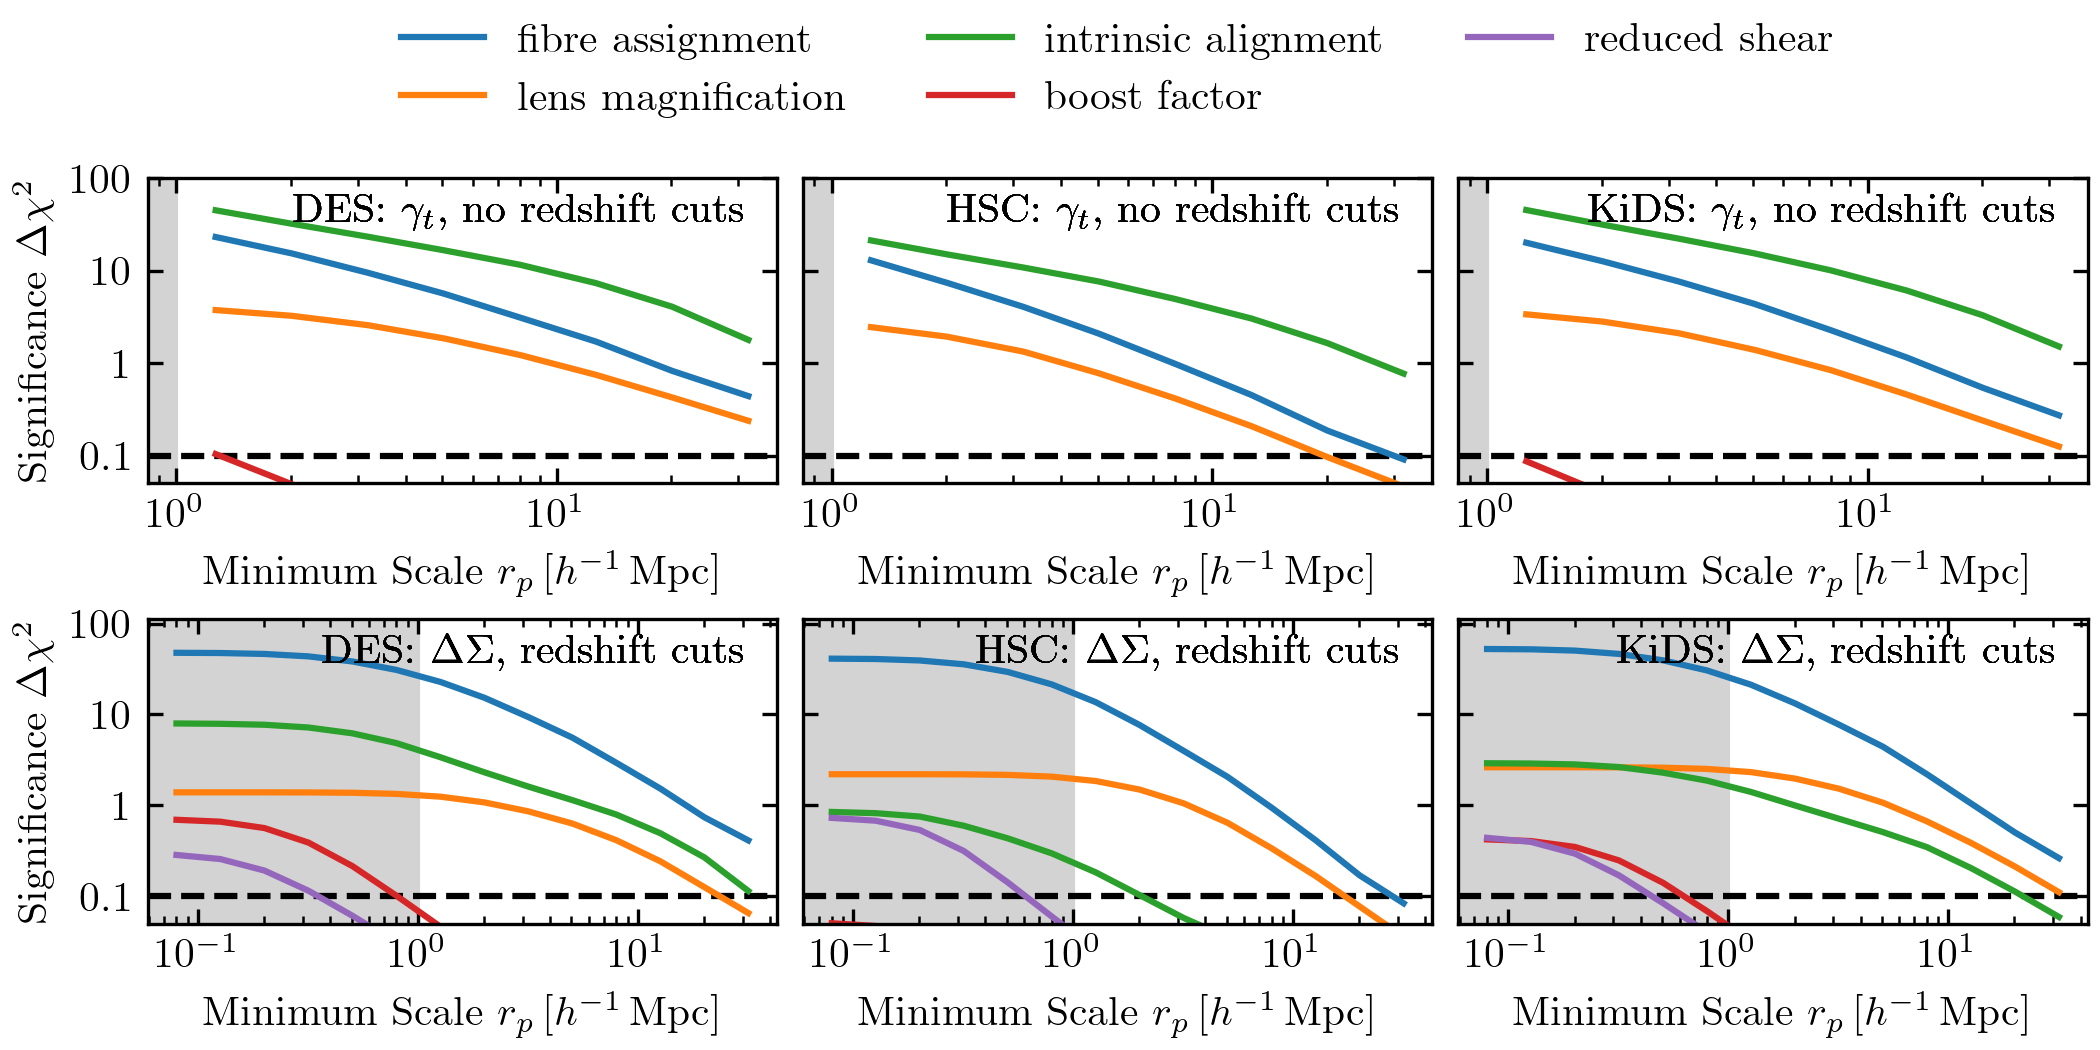
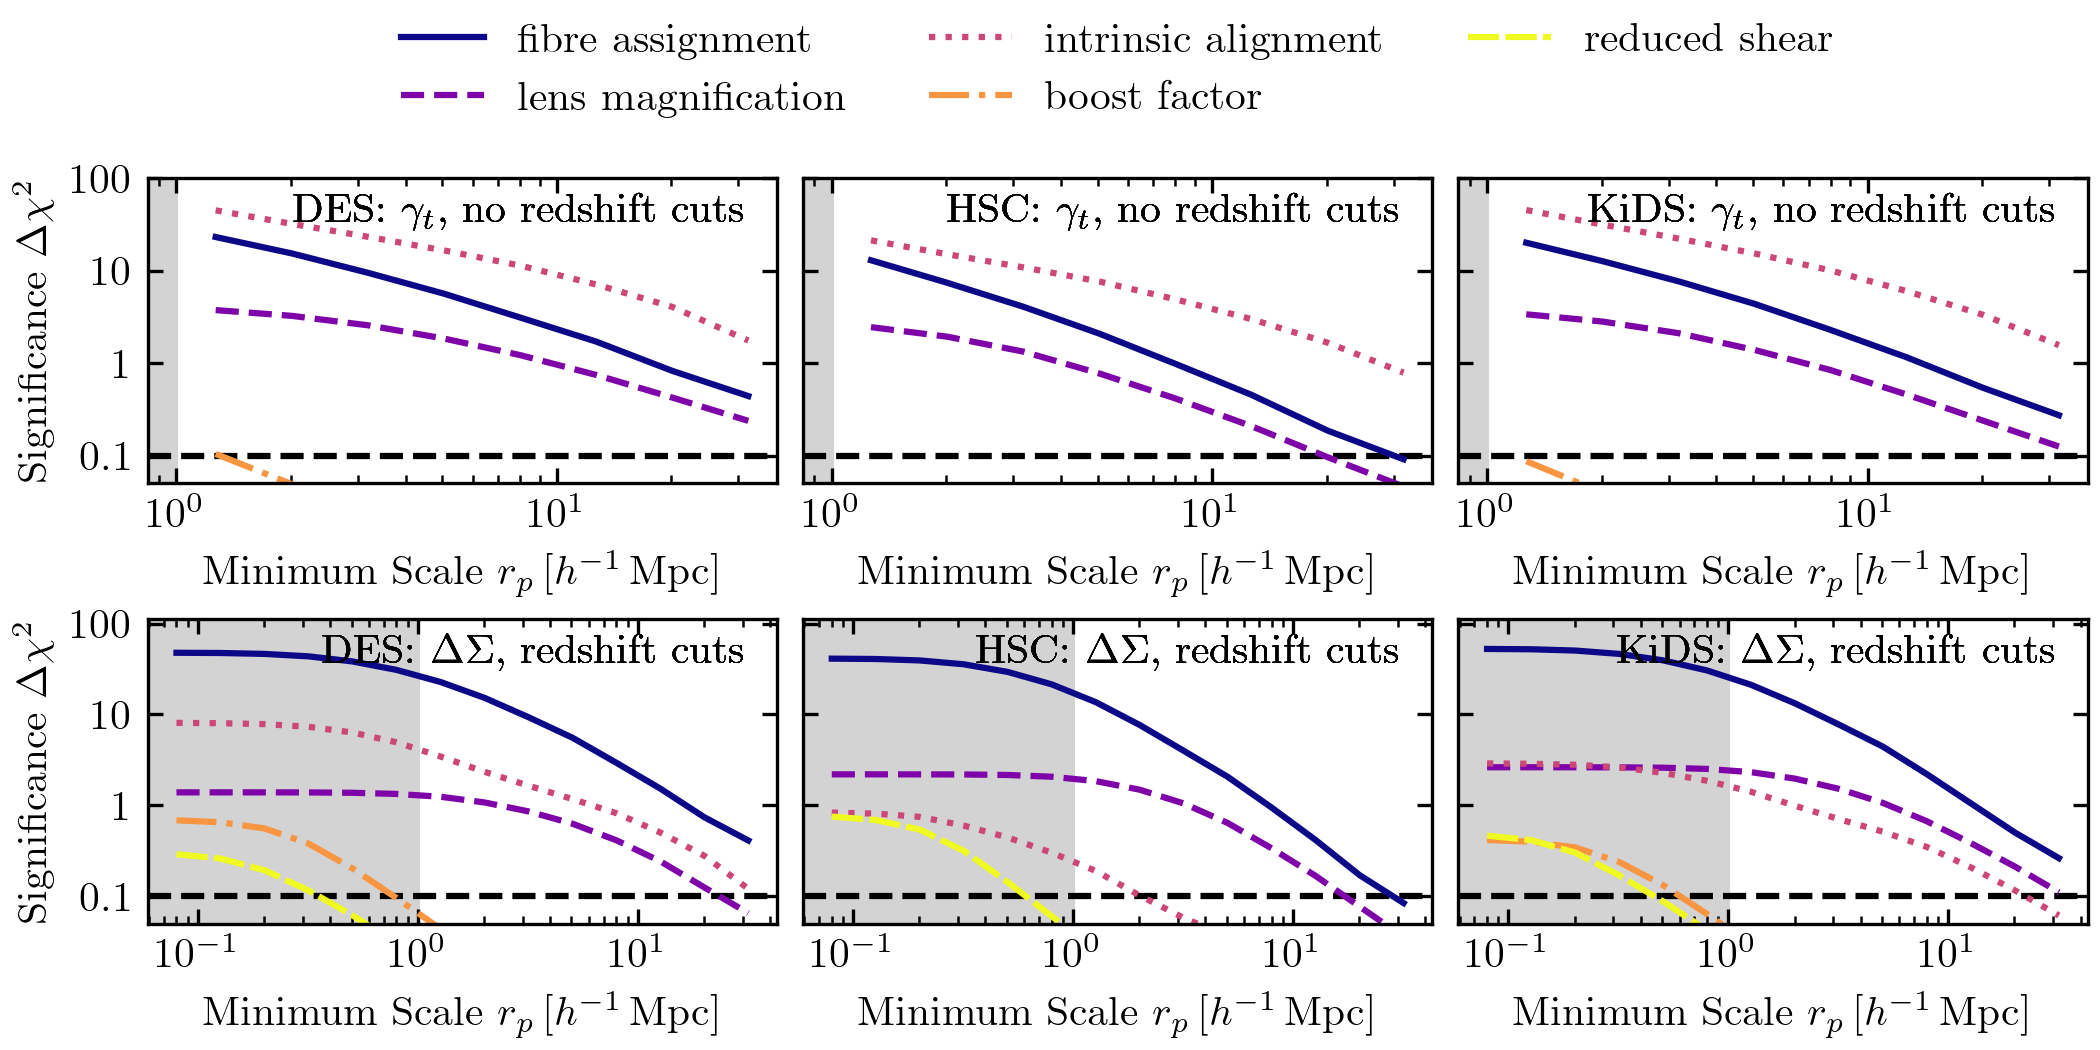
updated misc/significance

diff --git a/lwb/des/reduce.py b/lwb/des/reduce.py
@@ -1,0 +1,51 @@
+import h5py
+import numpy as np
+from astropy.table import Table
+
+# %%
+
+table_s = Table()
+
+fstream = h5py.File('DESY3_sompz_v0.40.h5')
+table_s['bhat'] = fstream['catalog/sompz/unsheared/bhat'][()]
+fstream.close()
+
+fstream = h5py.File('DESY3_metacal_v03-004.h5')
+
+for key in ['ra', 'dec', 'e_1', 'e_2', 'R11', 'R12', 'R21', 'R22', 'weight']:
+    table_s[key] = fstream['catalog/unsheared/' + key][()]
+
+for sheared in ['1m', '1p', '2m', '2p']:
+    table_s['weight_{}'.format(sheared)] = fstream[
+        'catalog/sheared_{}/weight'.format(sheared)][()]
+
+fstream.close()
+
+
+fstream = h5py.File('DESY3_indexcat.h5')
+
+for flag in ['select', 'select_1p', 'select_1m', 'select_2p', 'select_2m']:
+    table_s['flags_' + flag] = np.zeros(len(table_s), dtype=bool)
+    table_s['flags_' + flag][fstream['index/' + flag][()]] = True
+
+select = (table_s['flags_select'] | table_s['flags_select_1p'] |
+          table_s['flags_select_1m'] | table_s['flags_select_2p'] |
+          table_s['flags_select_2m']) & (table_s['bhat'] >= 0)
+table_s = table_s[select]
+fstream.close()
+
+# %%
+
+select = (table_s['ra'] < 60) | (table_s['ra'] > 300)
+select &= table_s['dec'] > -22.5
+table_s = table_s[select]
+table_s.write('des_y3.hdf5', path='catalog', overwrite=True)
+
+# %%
+
+table_n = Table.read(
+    '2pt_NG_final_2ptunblind_02_26_21_wnz_maglim_covupdate.fits', hdu=6)
+table_n.rename_column('Z_MID', 'z')
+table_n['n'] = np.vstack([table_n['BIN{}'.format(i + 1)] for i in range(4)]).T
+table_n.keep_columns(['z', 'n'])
+table_n.write('des_y3.hdf5', path='redshift', overwrite=True, append=True)

diff --git a/misc/significance/run.py b/misc/significance/run.py
@@ -1,10 +1,15 @@
-import matplotlib.gridspec as gridspec
+import matplotlib
 import matplotlib.pyplot as plt
 import numpy as np
 import zebu
 
 from astropy.table import Table
 from astropy import units as u
+from cycler import cycler
+
+plt.rc('axes', prop_cycle=(
+       cycler(color=matplotlib.colormaps['plasma'](np.linspace(0.0, 1.0, 5))) +
+       cycler(linestyle=['-', '--', ':', '-.', (0, (5, 1))])))
 
 # %%
 
@@ -82,6 +87,10 @@ for i, statistic in enumerate(['gt', 'ds']):
                     z_s = zebu.SOURCE_Z[survey]
                     use = use & (z_l[data['lens_bin']] <
                                  z_s[data['source_bin']] - 0.2)
+                    if k == 0 and name == 'boost':
+                        print(np.sum(use), survey)
+                        print(z_s)
+                        print(data[use & (data['r'] == np.amin(data['r']))])
 
                 chi_sq.append(significance(bias, cov, use))
             ax.plot(rp_min, chi_sq, label=label)
